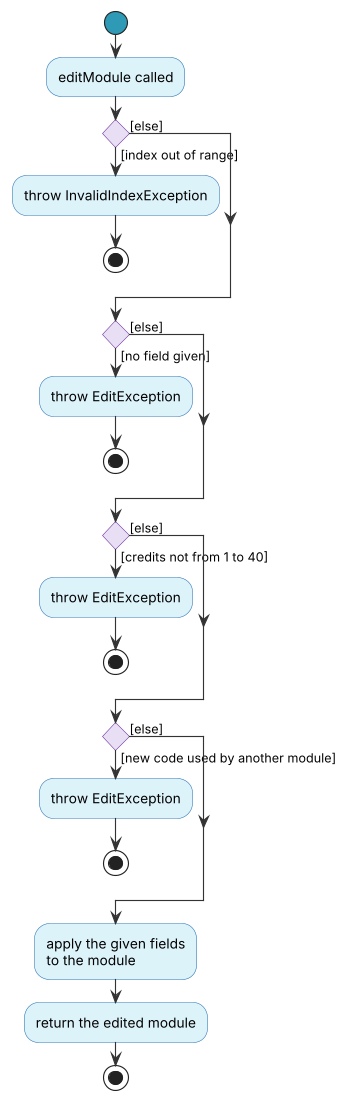
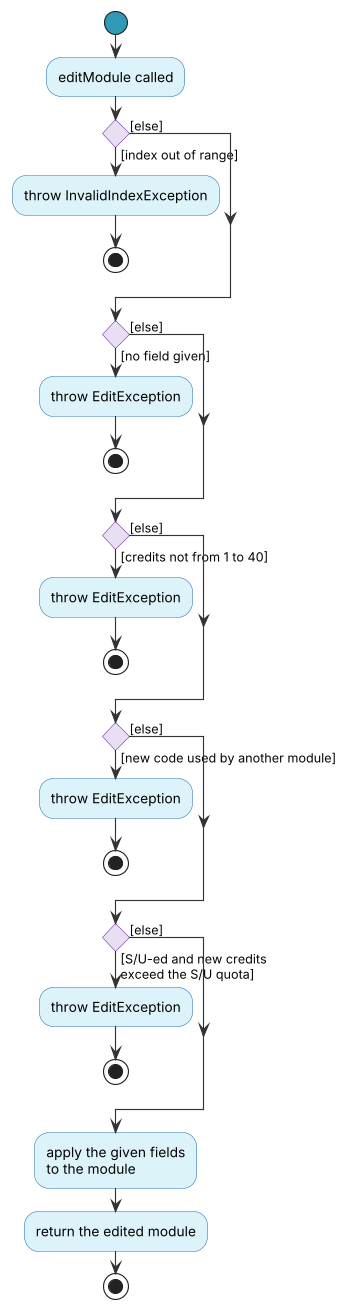
Keep S/U quota valid when editing credits

diff --git a/src/main/java/seedu/chatgpat/student/Student.java b/src/main/java/seedu/chatgpat/student/Student.java
@@ -309,7 +309,8 @@ public class Student {
      * @param newGrade  The new grade, or null to keep the current one.
      * @return The edited module.
      * @throws InvalidIndexException If the index is out of range.
-     * @throws EditException         If no field is given, the credit is not positive, or the new code already exists.
+     * @throws EditException         If no field is given, the credits are not from 1 to 40, the new code already
+     *                               exists, or the new credits of an S/U-ed module do not fit in the S/U quota.
      */
     public Module editModule(int index, String newCode, Integer newCredit, Grade newGrade) {
         Module module = getModule(index);
@@ -323,6 +324,9 @@ public class Student {
                 && isModuleExists(moduleList, newCode)) {
             throw new EditException("Module already exists: " + newCode);
         }
+        if (newCredit != null && module.isSu()) {
+            checkSuQuotaAllowsCredit(index, module, newCredit);
+        }
 
         if (newCode != null) {
             module.setModuleCode(newCode);
@@ -334,6 +338,29 @@ public class Student {
             module.setGrade(newGrade);
         }
         return module;
+    }
+
+    /**
+     * Checks that changing the credits of an S/U-ed module keeps the S/U quota from going below zero.
+     * The module's current credits are given back to the quota before the new credits are checked.
+     *
+     * @param index     The 1-based index of the module, used in the error message.
+     * @param module    The S/U-ed module whose credits will change.
+     * @param newCredit The new number of credits.
+     * @throws EditException If the new credits do not fit in the S/U quota.
+     */
+    private void checkSuQuotaAllowsCredit(int index, Module module, int newCredit) {
+        assert module.isSu() : "Only S/U-ed modules use the S/U quota";
+        int availableQuota = getRemainingSuQuota() + module.getCredit();
+        if (newCredit > availableQuota) {
+            logger.warning(() -> String.format(
+                    "Rejected editing module %d (%s) to %d MCs: only %d MCs of S/U quota available",
+                    index, module.getModuleCode(), newCredit, availableQuota));
+            throw new EditException(String.format(
+                    "Module %d is S/U-ed, and only %d MCs of S/U quota are available for it. "
+                            + "Remove the S/U with unsu %d first, or use fewer credits.",
+                    index, availableQuota, index));
+        }
     }
 
     /**

diff --git a/src/main/java/seedu/chatgpat/command/module/EditCommand.java b/src/main/java/seedu/chatgpat/command/module/EditCommand.java
@@ -7,6 +7,7 @@ import java.util.regex.Pattern;
 import seedu.chatgpat.command.Command;
 import seedu.chatgpat.command.Response;
 import seedu.chatgpat.exception.EditException;
+import seedu.chatgpat.parser.ParserUtil;
 import seedu.chatgpat.student.Grade;
 import seedu.chatgpat.student.Module;
 import seedu.chatgpat.student.Student;
@@ -59,7 +60,7 @@ public class EditCommand extends Command {
         if (!matcher.matches()) {
             throw new EditException(MESSAGE_USAGE);
         }
-        int parsedIndex = Integer.parseInt(matcher.group(1));
+        int parsedIndex = ParserUtil.parseInteger(matcher.group(1), MESSAGE_USAGE);
         String code = null;
         Integer credit = null;
         Grade grade = null;

diff --git a/docs/DeveloperGuide.md b/docs/DeveloperGuide.md
@@ -266,7 +266,7 @@ The following sequence diagram shows how the `delete 2` command is processed.
 The edit feature is facilitated by `EditCommand`, `Student#editModule(int, String, Integer, Grade)` and the setters in `Module`.
 
 * `EditCommand#parse(String)` — claims any input that starts with `edit`. It then matches `edit\s+(\d+)` followed by any number of `m/`, `c/` and `g/` fields, reads each field, and builds an `EditCommand`. A field the user did not give is `null`, meaning "keep the current value". If the input starts with `edit` but is malformed, it throws `EditException` with the usage message instead of returning empty, because otherwise the user would see the misleading "Unknown command".
-* `Student#editModule(...)` — validates everything first (for example, that the new credits are from 1 to 40 and the new code is not used by another module), then applies the given fields through `Module#setModuleCode`, `setCredit` and `setGrade`, and returns the edited module.
+* `Student#editModule(...)` — validates everything first (for example, that the new credits are from 1 to 40, that the new code is not used by another module, and that the new credits of an S/U-ed module still fit in the S/U quota), then applies the given fields through `Module#setModuleCode`, `setCredit` and `setGrade`, and returns the edited module.
 * `EditCommand#execute(Student)` — calls `editModule` and returns a `Response` with the message and the updated module.
 
 Given below is an example usage scenario.
@@ -289,7 +289,7 @@ The following activity diagram shows the checks that `editModule` makes before i
 
 <img src="images/EditActivity.png" alt="Activity diagram of the checks made by editModule" width="340" />
 
-**Note:** All checks happen before any setter is called, so a rejected edit never leaves a module half-edited.
+**Note:** All checks happen before any setter is called, so a rejected edit never leaves a module half-edited. The S/U quota check gives the module's current credits back to the quota before comparing, so the remaining quota can never go below zero.
 
 #### Design considerations
 
@@ -961,6 +961,7 @@ Prerequisites: the same three modules, none marked S/U.
 1. Test case: `su 2` again<br>Expected: An error, because the module already has SU applied. Nothing is changed.
 1. Test case: `unsu 2`<br>Expected: `Removed SU on module 2:` followed by the module and the remaining SU quota, which is back to what it was before `su 2`. `gpa` again shows `Your GPA is 4.50`.
 1. Test case: `su 99`<br>Expected: An error about an invalid index. Nothing is changed.
+1. Test case: `su 2`, then `edit 2 c/40`<br>Expected: An error saying that module 2 is S/U-ed and only 28 MCs of S/U quota are available for it. The credits are unchanged. Run `unsu 2` afterwards to restore the data.
 
 #### Checking the quota when nothing is SU-ed
 

diff --git a/docs/UserGuide.md b/docs/UserGuide.md
@@ -143,6 +143,8 @@ Changes the code, credits and/or grade of an existing module. Its S/U status and
 - At least one of the optional fields must be given.
 - Only the fields you give are changed; everything else stays as it is.
 - The same rules as in `add` apply: credits from 1 to 40, a known grade, and a code that no other module uses.
+- If the module has S/U applied, its new credits must also fit in your S/U quota.
+- If you give the same field more than once, for example `edit 1 g/A g/B`, the last one is used.
 
 **Examples:**
 
@@ -160,6 +162,8 @@ Updated module 2:
 
 - No field given shows `Provide at least one field to edit.`
 - A code that another module already uses shows `Module already exists: MA1521`.
+- New credits that do not fit in the S/U quota of an S/U-ed module show, for example, `Module 1 is S/U-ed, and only 28 MCs of S/U quota are available for it. Remove the S/U with unsu 1 first, or use fewer credits.`
+- A missing or invalid index, or an unknown field, shows `Usage: edit INDEX [m/MODULE_CODE] [c/CREDITS] [g/GRADE]`.
 
 ### Planning a module for a semester: `plan`
 
